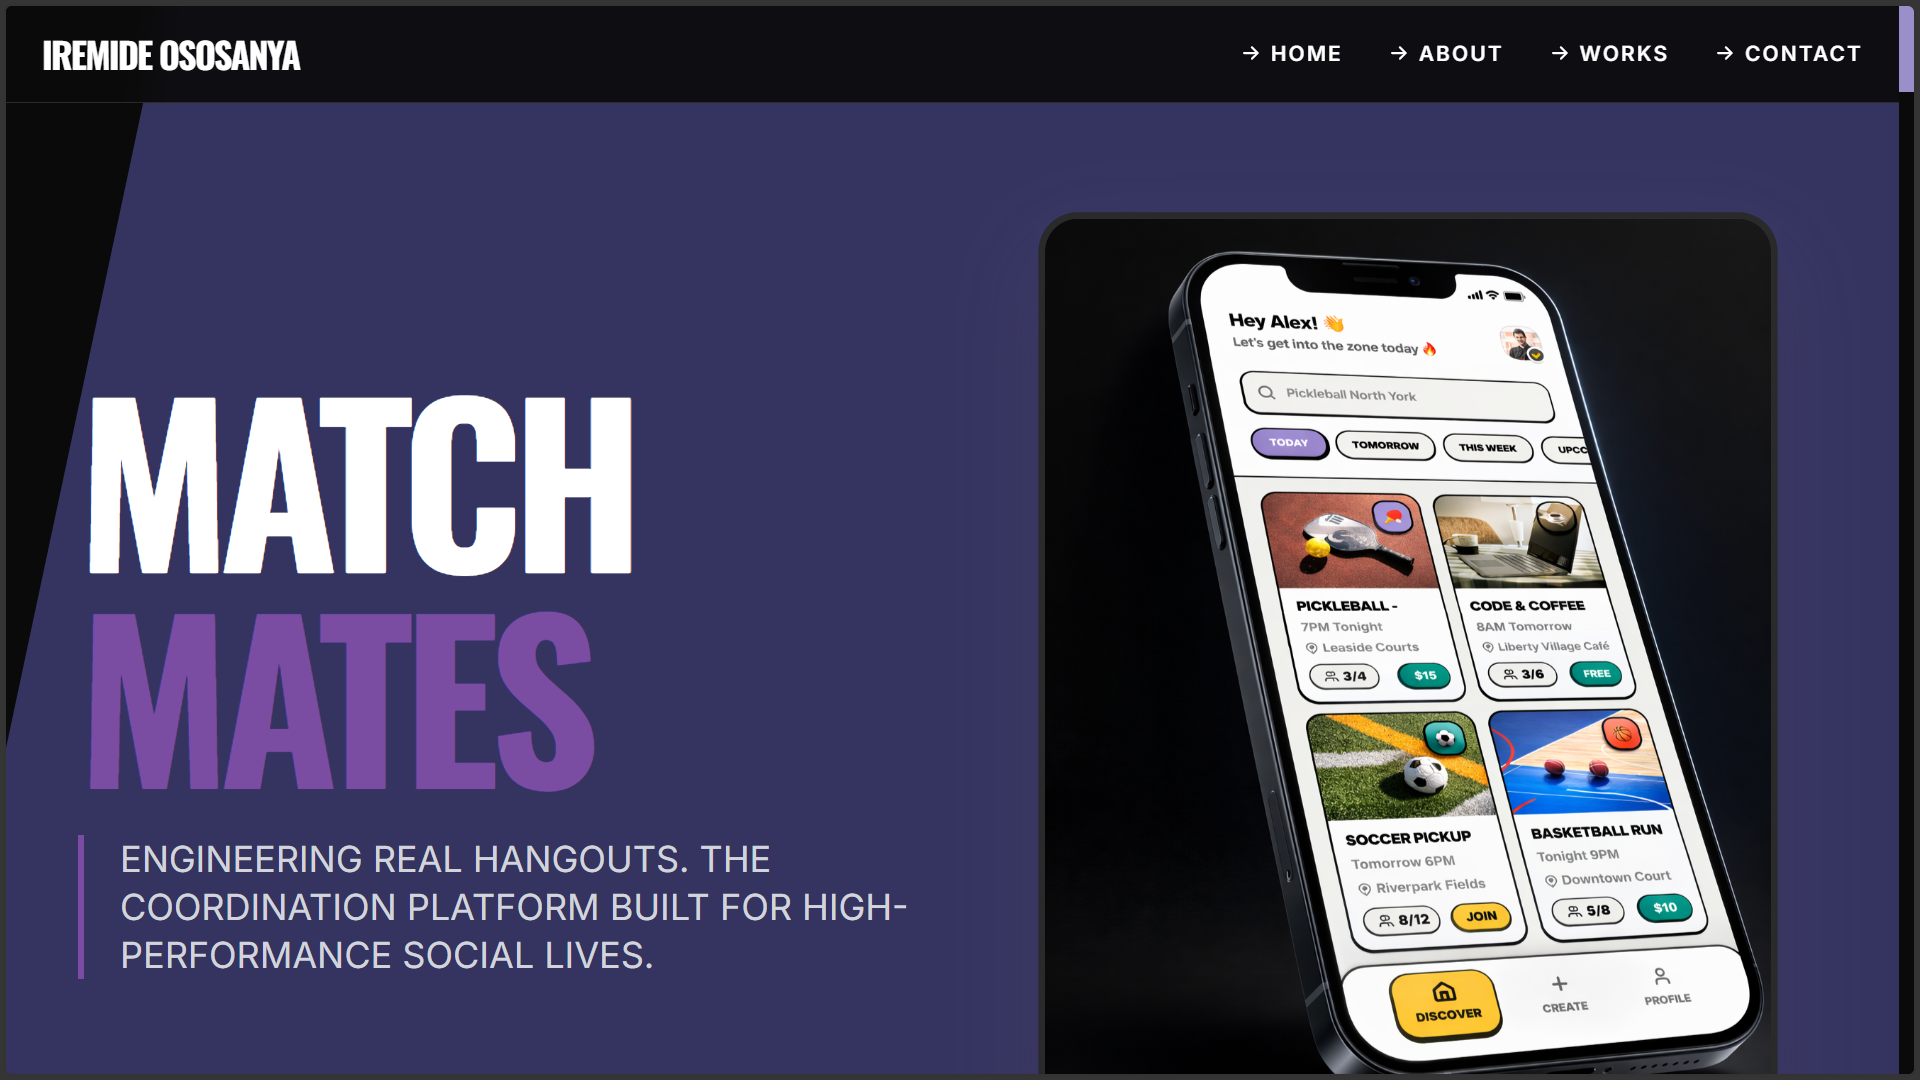
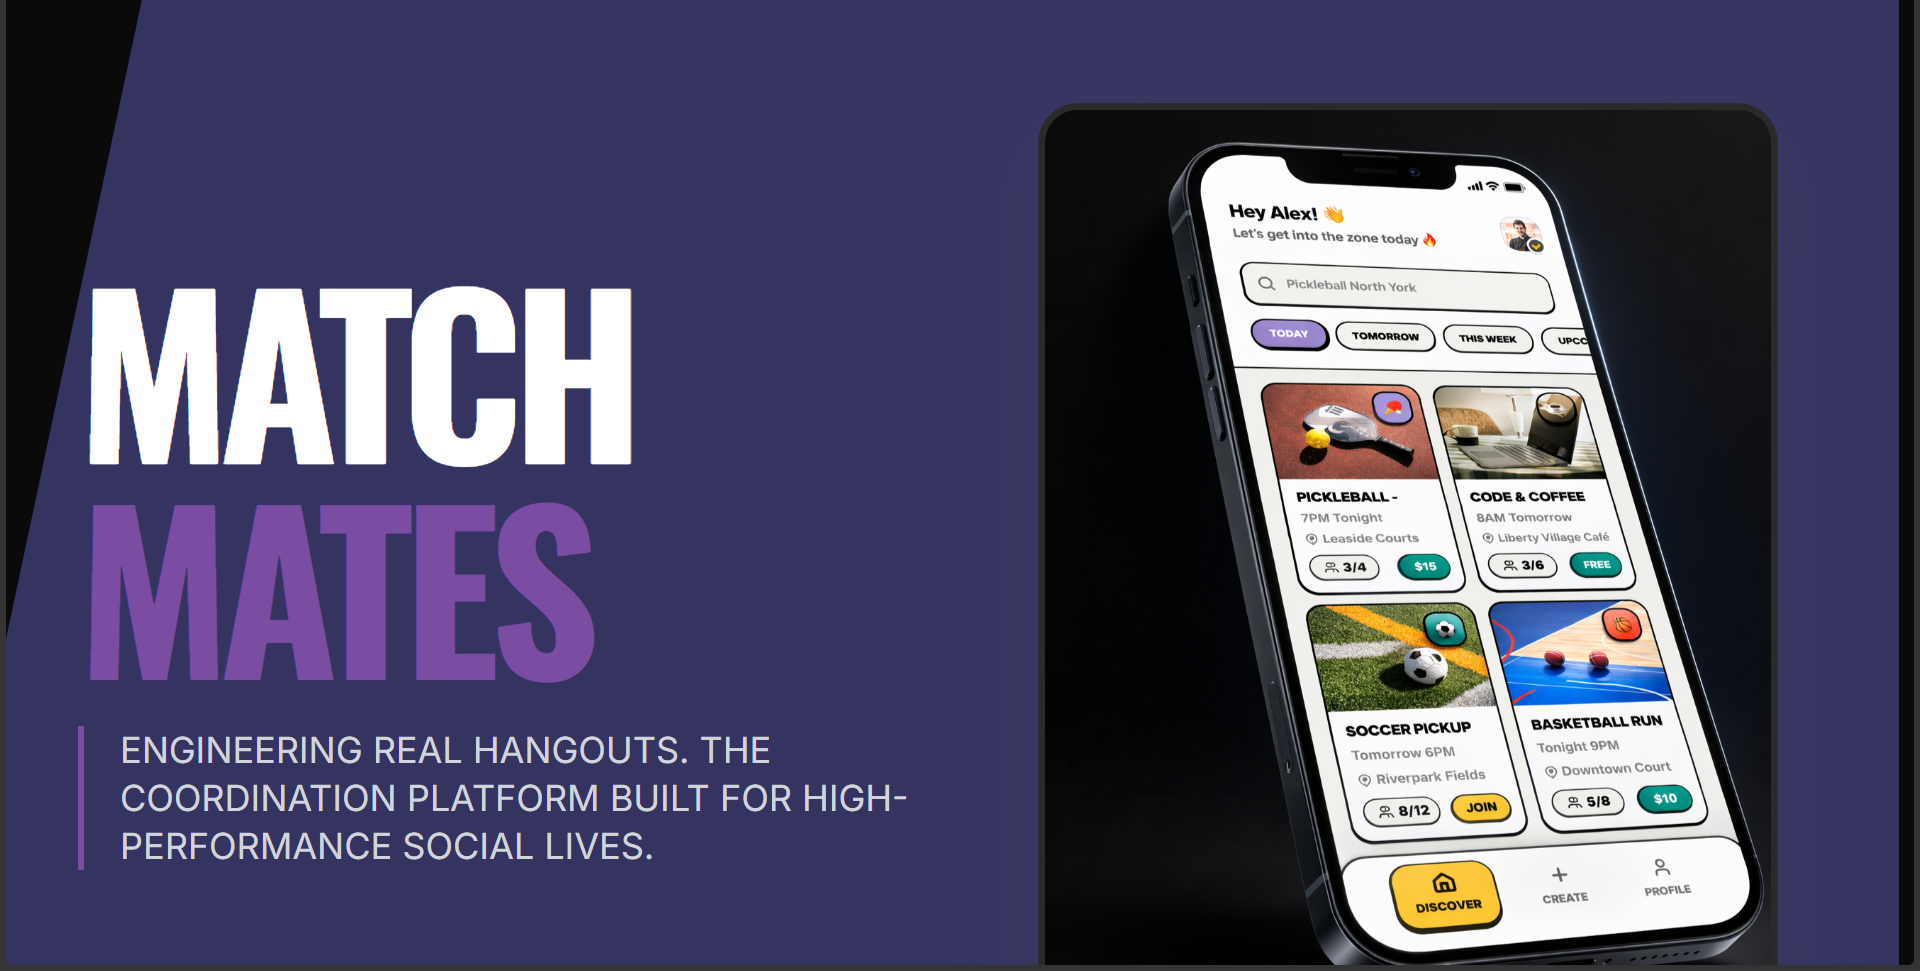
remaining changes

diff --git a/Study Quest/index.html b/Study Quest/index.html
@@ -570,11 +570,9 @@
           >
             <!-- Wireframe -->
             <div
-              class="bg-white/5 rounded-3xl p-4 border border-white/10 aspect-[9/19] flex flex-col relative overflow-hidden group transition-all duration-300 hover:scale-[1.05] hover:shadow-2xl"
+              class="bg-white/5 rounded-3xl p-4 border border-white/10 aspect-[9/19] flex flex-col relative overflow-hidden group transition-all"
             >
-              <div
-                class="absolute inset-0 bg-brand-purple/20 opacity-0 group-hover:opacity-100 transition-opacity duration-300"
-              ></div>
+              
               <img
                 class="w-full h-full object-cover rounded-xl border border-white/10"
                 src="Images/Study Nest LF 1.png"
@@ -585,9 +583,7 @@
             <div
               class="bg-white/5 rounded-3xl p-4 border border-white/10 aspect-[9/19] flex flex-col relative overflow-hidden group translate-y-4 md:translate-y-8"
             >
-              <div
-                class="absolute inset-0 bg-brand-purple/20 opacity-0 group-hover:opacity-100 transition-opacity duration-300"
-              ></div>
+              
               <img
                 class="w-full h-full object-cover rounded-xl border border-white/10"
                 src="Images/Study Nest LF 2.png"
@@ -598,7 +594,7 @@
             <div
               class="bg-white/5 rounded-3xl p-4 border border-white/10 aspect-[9/19] flex flex-col relative overflow-hidden group z-10 shadow-2xl scale-105 border-brand-purple/50"
             >
-              <div class="absolute inset-0 bg-brand-purple/10"></div>
+              
               <img
                 class="w-full h-full object-cover rounded-xl border border-white/20"
                 src="Images/Study Nest LF 3.png"
@@ -609,9 +605,7 @@
             <div
               class="bg-white/5 rounded-3xl p-4 border border-white/10 aspect-[9/19] flex flex-col relative overflow-hidden group translate-y-4 md:translate-y-8"
             >
-              <div
-                class="absolute inset-0 bg-brand-purple/20 opacity-0 group-hover:opacity-100 transition-opacity duration-300"
-              ></div>
+              
               <img
                 class="w-full h-full object-cover rounded-xl border border-white/10"
                 src="Images/Study Nest LF 4.png"
@@ -625,9 +619,6 @@
             <div
               class="bg-white/5 rounded-3xl p-4 border border-white/10 aspect-[9/19] flex flex-col relative overflow-hidden group"
             >
-              <div
-                class="absolute inset-0 bg-brand-purple/20 opacity-0 group-hover:opacity-100 transition-opacity duration-300"
-              ></div>
               <img
                 class="w-full h-full object-cover rounded-xl border border-white/10"
                 src="Images/Study Nest LF 5.png"
@@ -637,9 +628,6 @@
             <div
               class="bg-white/5 rounded-3xl p-4 border border-white/10 aspect-[9/19] mt-20 flex flex-col relative overflow-hidden group"
             >
-              <div
-                class="absolute inset-0 bg-brand-purple/20 opacity-0 group-hover:opacity-100 transition-opacity duration-300"
-              ></div>
               <img
                 class="w-full h-full object-cover rounded-xl border border-white/10"
                 src="Images/Study Nest LF 6.png"
@@ -649,9 +637,6 @@
             <div
               class="bg-white/5 rounded-3xl p-4 border border-white/10 aspect-[9/19] flex flex-col relative overflow-hidden group"
             >
-              <div
-                class="absolute inset-0 bg-brand-purple/20 opacity-0 group-hover:opacity-100 transition-opacity duration-300"
-              ></div>
               <img
                 class="w-full h-full object-cover rounded-xl border border-white/10"
                 src="Images/Study Nest LF 7.png"
@@ -661,9 +646,6 @@
             <div
               class="bg-white/5 rounded-3xl p-4 border border-white/10 aspect-[9/19] mt-20 flex flex-col relative overflow-hidden group"
             >
-              <div
-                class="absolute inset-0 bg-brand-purple/20 opacity-0 group-hover:opacity-100 transition-opacity duration-300"
-              ></div>
               <img
                 class="w-full h-full object-cover rounded-xl border border-white/10"
                 src="Images/Study Nest LF 8.png"
@@ -699,11 +681,8 @@
             </p>
           </div>
           <div
-            class="bg-white/5 rounded-3xl w-[300px] h-[600px] p-4 border border-white/10 aspect-[9/19] flex flex-col relative overflow-hidden group"
+            class="bg-white/5 rounded-3xl w-[200px] h-[600px] p-4 border border-white/10 aspect-[9/19] flex flex-col relative overflow-hidden group"
           >
-            <div
-              class="absolute inset-0 bg-brand-purple/20 opacity-0 group-hover:opacity-100 transition-opacity duration-300"
-            ></div>
             <img
               class="w-full h-full object-cover rounded-xl border border-white/10"
               src="Images/Study Nest LF 9.png"
@@ -1034,6 +1013,63 @@
 
       window.addEventListener("resize", () => {
         if (window.innerWidth >= 768) closeMobileMenu();
+      });
+    </script>
+    <!-- Lightbox Container -->
+    <div id="lightbox" class="fixed inset-0 z-[100] bg-black/90 hidden flex items-center justify-center p-4 transition-opacity duration-300 opacity-0 cursor-pointer">
+      <button id="lightbox-close" class="absolute top-6 right-6 text-white hover:text-brand-volt text-3xl focus:outline-none z-[101]">
+        <i class="fa-solid fa-xmark"></i>
+      </button>
+      <img id="lightbox-img" src="" alt="Preview" class="max-w-[90vw] max-h-[90vh] object-contain rounded-xl shadow-2xl scale-95 transition-transform duration-300 pointer-events-none" />
+    </div>
+
+    <script>
+      // Lightbox functionality
+      const lightbox = document.getElementById('lightbox');
+      const lightboxImg = document.getElementById('lightbox-img');
+      const lightboxClose = document.getElementById('lightbox-close');
+      const imagesToPreview = document.querySelectorAll('#lofi img, #postlofi img, #hifi img');
+
+      function openLightbox(src) {
+        lightboxImg.src = src;
+        lightbox.classList.remove('hidden');
+        // trigger reflow
+        void lightbox.offsetWidth;
+        lightbox.classList.remove('opacity-0');
+        lightboxImg.classList.remove('scale-95');
+        lightboxImg.classList.add('scale-100');
+        document.body.style.overflow = 'hidden';
+      }
+
+      function closeLightboxPopup() {
+        lightbox.classList.add('opacity-0');
+        lightboxImg.classList.remove('scale-100');
+        lightboxImg.classList.add('scale-95');
+        setTimeout(() => {
+          lightbox.classList.add('hidden');
+          document.body.style.overflow = '';
+        }, 300);
+      }
+
+      imagesToPreview.forEach(img => {
+        img.classList.add('cursor-pointer');
+        img.addEventListener('click', (e) => {
+          e.stopPropagation();
+          openLightbox(img.src);
+        });
+      });
+
+      lightboxClose.addEventListener('click', closeLightboxPopup);
+      lightbox.addEventListener('click', (e) => {
+        if (e.target === lightbox) {
+          closeLightboxPopup();
+        }
+      });
+
+      document.addEventListener('keydown', (e) => {
+        if (e.key === 'Escape' && !lightbox.classList.contains('hidden')) {
+          closeLightboxPopup();
+        }
       });
     </script>
     <script src="../splash-cursor.js"></script>

diff --git a/index.html b/index.html
@@ -221,10 +221,10 @@
 
   <!-- HERO SECTION -->
   <section id="hero"
-    class="relative pt-32 pb-20 md:pt-30 md:pb-32 px-6 min-h-[90vh] flex flex-col justify-center border-b border-gray-300 overflow-hidden">
+    class="relative pt-32 pb-15 md:pt-30 md:pb-20 px-6 min-h-[90vh] flex flex-col justify-center overflow-hidden">
     <div class="max-w-7xl mx-auto w-full relative z-10">
       <!-- Main Typography -->
-      <div class="flex flex-col-2 gap-5">
+      <div class="flex flex-col-2 gap-20">
         <div class="relative">
           <h1
             class="font-serif text-5xl sm:text-7xl md:text-8xl lg:text-[10rem] leading-[0.9] tracking-tighter w-full lg:w-[85%] hero-name">
@@ -235,13 +235,13 @@
             <span class="block font-bold text-[#ff8aac] hero-offset ml-4 sm:ml-8 md:ml-24">Ososanya</span>
           </h1>
         </div>
-        <div class="object-cover bg-[#f5f5f0]">
-          <img src="images/Iremide Ososanya homepage doodle.png" alt="" />
+        <div class="object-cover w-[300px]">
+          <img src="images/heroimg.png" alt="" />
         </div>
       </div>
 
       <!-- Description -->
-      <div class="mt-16 md:mt-24 w-full md:w-1/2 lg:w-1/3 ml-auto mr-4 md:mr-12">
+      <div class="mt-12 md:mt-8 w-full md:w-1/2 lg:w-1/3 ml-auto mr-4 md:mr-12">
         <p class="font-mono text-sm leading-relaxed text-gray-700 text-justify">
           Operating at the intersection of stark minimalism and functional
           complexity. Based in Canada, I craft digital experiences that borrow
@@ -267,9 +267,9 @@
   </section>
 
   <!-- SELECTED WORK SECTION -->
-  <section id="works" class="py-32 bg-off-white relative">
+  <section id="works" class="py-14 bg-off-white relative">
     <div class="max-w-7xl mx-auto px-6">
-      <div class="flex justify-between items-end mb-24">
+      <div class="flex justify-between items-end mb-14">
         <h2 class="font-serif text-4xl md:text-5xl italic text-gray-400">
           Selected Works
         </h2>
@@ -301,7 +301,7 @@
 
           <!-- Hover Image -->
           <div
-            class="thumbnail absolute top-1/2 left-[455px] -translate-x-1/2 -translate-y-1/2 w-90 h-72 z-20 hidden md:block">
+            class="thumbnail absolute top-1/2 left-[425px] -translate-x-1/2 -translate-y-1/2 w-90 h-72 z-20 hidden md:block">
             <img class="w-full h-full object-cover opacity-80" src="images/StudyQuest.png"
               alt="Abstract minimalist UI dashboard wireframe, high contrast black and white print style" />
           </div>
@@ -332,7 +332,7 @@
 
           <!-- Hover Image -->
           <div
-            class="thumbnail absolute top-1/2 right-[470px] -translate-x-1/2 -translate-y-1/2 w-90 h-72 z-20 hidden md:block">
+            class="thumbnail absolute top-1/2 right-[445px] -translate-x-1/2 -translate-y-1/2 w-90 h-72 z-20 hidden md:block">
             <img class="w-full h-full object-cover opacity-80" src="images/Matchmates.png"
               alt="Minimalist mobile app screens laid out asymmetrically, editorial style, grayscale" />
           </div>
@@ -340,7 +340,7 @@
 
         <!-- Project 3 -->
         <a href="AR Shopping/AR Shopping - Variation 2 (1).html"
-          class="project-row relative py-16 md:py-24 border-b border-black group cursor-pointer flex flex-col md:flex-row items-start md:items-center justify-between px-4 md:px-8 hover:scale-[1.01] hover:shadow-2xl transition-all duration-300">
+          class="project-row relative py-16 md:py-24 group cursor-pointer flex flex-col md:flex-row items-start md:items-center justify-between px-4 md:px-8 hover:scale-[1.01] hover:shadow-2xl transition-all duration-300">
           <div class="w-full md:w-auto z-10">
             <h3
               class="font-serif text-5xl md:text-7xl font-bold tracking-tight text-charcoal group-hover:italic transition-all duration-300">
@@ -361,7 +361,7 @@
 
           <!-- Hover Image -->
           <div
-            class="thumbnail absolute top-1/2 left-[400px] -translate-x-1/2 -translate-y-1/2 w-90 h-72 z-20 hidden md:block">
+            class="thumbnail absolute top-1/2 left-[370px] -translate-x-1/2 -translate-y-1/2 w-90 h-72 z-20 hidden md:block">
             <img class="w-full h-full object-cover opacity-80" src="images/Pantrii.png"
               alt="Complex financial dashboard UI, stark typography, data visualization, monochrome" />
           </div>

diff --git a/Matchmates/index.html b/Matchmates/index.html
@@ -562,7 +562,7 @@
               ></div>
 
               <img
-                class="w-full h-auto max-h-[400px] object-contain"
+                class="w-full h-auto max-h-[700px] object-contain"
                 src="images/1st image after picture this.png"
                 alt="Wireframe flowchart diagram with dark background, neon connecting lines, showing user journey for a sports app."
               />
@@ -602,7 +602,7 @@
               ></div>
 
               <img
-                class="w-full h-auto max-h-[400px] object-contain"
+                class="w-full h-auto max-h-[700px] object-contain"
                 src="images/Painpoints.png"
                 alt="Dark mode UI screen showing a detailed match creation form with brutalist design elements, toggle switches, and neon green accents."
               />
@@ -669,7 +669,7 @@
               ></div>
 
               <img
-                class="w-full h-auto max-h-[400px] object-contain"
+                class="w-full h-auto max-h-[700px] object-contain"
                 src="images/Affinitymapping.png"
                 alt="Wireframe flowchart diagram with dark background, neon connecting lines, showing user journey for a sports app."
               />
@@ -709,7 +709,7 @@
               ></div>
 
               <img
-                class="w-full h-auto max-h-[400px] object-contain"
+                class="w-full h-auto max-h-[700px] object-contain"
                 src="images/Doublediamond.png"
                 alt="Dark mode UI screen showing a detailed match creation form with brutalist design elements, toggle switches, and neon green accents."
               />
@@ -767,22 +767,8 @@
             class="relative flex content-center justify-center gap-5 items-center"
           >
             <div
-              class="relative z-10 order-1 lg:order-2 p-1 border-2 border-gray-600 mb-20 bg-black/50 backdrop-blur-sm"
+              class="relative z-10 order-1 lg:order-2 p-1 mb-20 backdrop-blur-sm"
             >
-              <!-- Technical Corner Markers -->
-              <div
-                class="absolute top-0 left-0 w-4 h-4 border-t-2 border-l-2 border-volt2 -translate-x-1 -translate-y-1"
-              ></div>
-              <div
-                class="absolute top-0 right-0 w-4 h-4 border-t-2 border-r-2 border-volt2 translate-x-1 -translate-y-1"
-              ></div>
-              <div
-                class="absolute bottom-0 left-0 w-4 h-4 border-b-2 border-l-2 border-volt2 -translate-x-1 translate-y-1"
-              ></div>
-              <div
-                class="absolute bottom-0 right-0 w-4 h-4 border-b-2 border-r-2 border-volt2 translate-x-1 translate-y-1"
-              ></div>
-
               <img
                 class="w-full h-auto max-h-[400px] object-contain"
                 src="images/Match Mates LF 1.png"

diff --git a/About Page 2 - Variation 1 (1).html b/About Page 2 - Variation 1 (1).html
@@ -183,7 +183,6 @@
 
         <!-- Text Content (Bottom on mobile, Left on desktop) -->
         <div class="w-full md:w-3/5 text-center md:text-left">
-          <span class="text-xs uppercase tracking-[0.2em] text-gray-400 mb-6 block fade-in-up">ABOUT</span>
           <h1 id="about-title"
             class="font-serif text-5xl md:text-7xl lg:text-8xl text-white mb-8 md:mb-12 leading-tight tracking-tight fade-in-up delay-100">
             About Me
@@ -279,6 +278,7 @@
       });
     });
   </script>
+  <script src="splash-cursor.js"></script>
 </body>
 
 </html>
